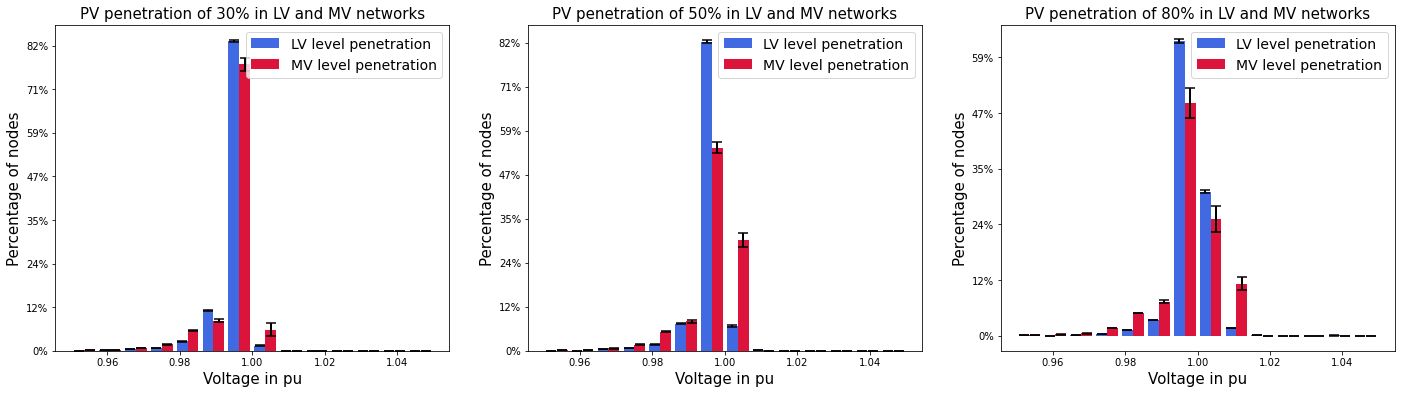
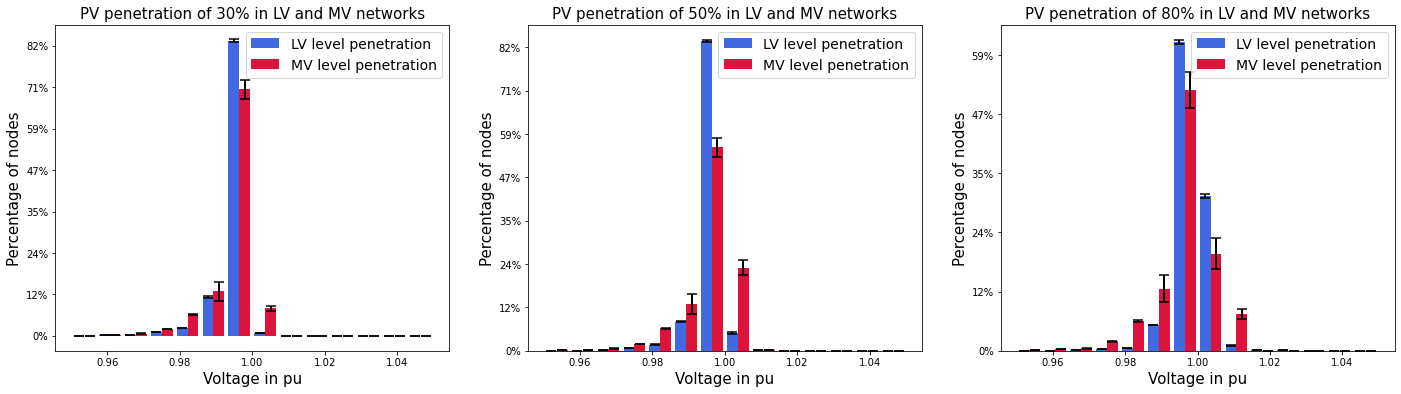
updated ensemble figs

diff --git a/ensemble/ensemble-test1.9.py b/ensemble/ensemble-test1.9.py
@@ -1,0 +1,249 @@
+# -*- coding: utf-8 -*-
+"""
+Created on Tue Mar 30 21:05:36 2021
+
+@author: Rounak
+
+Description: This program creates a schematic of the ensemble network generation
+process.
+"""
+
+import sys,os
+import networkx as nx
+import numpy as np
+import matplotlib.pyplot as plt
+import geopandas as gpd
+from shapely.geometry import Point
+from matplotlib.lines import Line2D
+from pyqtree import Index
+
+workpath = os.getcwd()
+figpath = workpath + "/figs/"
+
+def geodist(pt1,pt2):
+    '''
+    Measures the geodesic distance between two coordinates.
+    pt1: shapely point geometry of point 1
+    pt2: shapely point geometry of point 2
+    '''
+    lon1,lat1 = pt1.x,pt1.y
+    lon2,lat2 = pt2.x,pt2.y
+    return np.sqrt((lon1-lon2)**2+(lat1-lat2)**2)
+
+def bounds(pt,radius):
+    """
+    Returns the bounds for a point geometry. The bound is a square around the
+    point with side of 2*radius units.
+    
+    pt:
+        TYPE: shapely point geometry
+        DESCRIPTION: the point for which the bound is to be returned
+    
+    radius:
+        TYPE: floating type 
+        DESCRIPTION: radius for the bounding box
+    """
+    return (pt.x-radius, pt.y-radius, pt.x+radius, pt.y+radius)
+
+def find_nearest_node(center_cord,node_cord):
+    """
+    Computes the nearest node in the dictionary 'node_cord' to the point denoted
+    by the 'center_cord'
+    
+    center_cord: 
+        TYPE: list of two entries
+        DESCRIPTION: geographical coordinates of the center denoted by a list
+                     of two entries
+    
+    node_cord: 
+        TYPE: dictionary 
+        DESCRIPTION: dictionary of nodelist with values as the geographical 
+                     coordinate
+    """
+    xmin,ymin = np.min(np.array(list(node_cord.values())),axis=0)
+    xmax,ymax = np.max(np.array(list(node_cord.values())),axis=0)
+    bbox = (xmin,ymin,xmax,ymax)
+    idx = Index(bbox)
+    
+    nodes = []
+    for i,n in enumerate(list(node_cord.keys())):
+        node_geom = Point(node_cord[n])
+        node_bound = bounds(node_geom,0.0)
+        idx.insert(i,node_bound)
+        nodes.append((node_geom, node_bound, n))
+    
+    pt_center = Point(center_cord)
+    center_bd = bounds(pt_center,2)
+    matches = idx.intersect(center_bd)
+    closest_node = min(matches,key=lambda i: geodist(nodes[i][0],pt_center))
+    return nodes[closest_node][-1]
+
+
+def get_additional_edge(graph,edge):
+    new_graph = graph.__class__()
+    new_graph.add_nodes_from(graph.nodes)
+    new_graph.add_edges_from(graph.edges)
+    
+    new_graph.remove_edge(*edge)
+    if nx.has_path(new_graph,0,edge[0]):
+        end_node = edge[0]
+        other_node = edge[1]
+    else:
+        end_node = edge[1]
+        other_node = edge[0]
+    
+    comps = list(nx.connected_components(new_graph))
+    connected_nodes = list(comps[0]) \
+            if end_node in list(comps[0]) else list(comps[1])
+    dict_node = {n:graph.nodes[n]['cord'] for n in connected_nodes \
+                 if n!=end_node}
+    center_node = graph.nodes[other_node]['cord']
+    near_node = find_nearest_node(center_node,dict_node)
+    new_edge = (near_node,other_node)
+    return new_edge
+    
+    
+
+G = nx.Graph()
+edgelist = [(0,1),(0,2),(1,3),(1,4),(3,5),(2,6),(6,7),(6,8),(6,9),(7,10),(10,11)]
+G.add_edges_from(edgelist)
+
+
+cord = {0:[0,4],1:[-1,3],2:[1,3],3:[-2,2],4:[0,2],5:[-2,1],
+        6:[1,2],7:[1,1],8:[2,1],9:[2,2],10:[-1,0],11:[-2,0]}
+
+label = {0:'S',1:'R',2:'R',3:'R',4:'T',5:'T',6:'R',
+         7:'T',8:'T',9:'T',10:'R',11:'T'}
+
+nx.set_node_attributes(G,cord,'cord')
+nx.set_node_attributes(G,label,'label')
+
+edges = [(1,3),(1,4),(3,5),(2,6),(6,7),(6,8),(6,9),(7,10),(10,11)]
+new_edges = [get_additional_edge(G, edge) for edge in edges]
+add_edges = []
+for e in new_edges:
+    if (e[1],e[0]) not in add_edges and e not in add_edges:
+        add_edges.append(e)
+
+# Node colors
+n_col = []
+for n in G:
+    if label[n]=='T':
+        n_col.append('green')
+    elif label[n]=='R':
+        n_col.append('orange')
+    else:
+        n_col.append('dodgerblue')
+
+leghands1 = [Line2D([0], [0], color='white', markerfacecolor='green', 
+                   marker='o',markersize=15,label='transformer'),
+            Line2D([0], [0], color='white', markerfacecolor='orange', 
+                   marker='o',markersize=15,label='road node'),
+            Line2D([0], [0], color='white', markerfacecolor='dodgerblue', 
+                   marker='o',markersize=15,label='substation')]
+
+leghands2 = [Line2D([0], [0], color='crimson', markerfacecolor='crimson',linestyle='dashed', 
+                   marker='o',markersize=0,label='deleted edge'),
+            Line2D([0], [0], color='green', markerfacecolor='green', 
+                   linestyle='dashed',markersize=0,label='added edge'),
+            Line2D([0], [0], color='white', markerfacecolor='green', 
+                   marker='o',markersize=15,label='transformer'),
+            Line2D([0], [0], color='white', markerfacecolor='orange', 
+                   marker='o',markersize=15,label='road node'),
+            Line2D([0], [0], color='white', markerfacecolor='dodgerblue', 
+                   marker='o',markersize=15,label='substation')]
+
+#%% Figure 1: Optimal Network G0=(V,Ep)
+fig = plt.figure(figsize=(8,8))
+ax = fig.add_subplot(111)
+
+nx.draw_networkx(G,ax=ax,pos=cord,node_color=n_col,node_size=800,width=2)
+ax.legend(handles=leghands1,loc='best',ncol=1,prop={'size': 12})
+fig.savefig("{}{}.png".format(figpath,'optimal-g0'),bbox_inches='tight')
+
+#%% Figure 2: Transition from G0 to G1
+fig = plt.figure(figsize=(8,8))
+ax = fig.add_subplot(111)
+
+edges = [(0,1),(0,2),(1,3),(3,5),(2,6),(6,7),(6,8),(6,9),(7,10),(10,11)]
+del_edge = [(1,4)]
+add_edge = [(4,6)]
+nx.draw_networkx(G,ax=ax,pos=cord,node_color=n_col,with_labels=True,edgelist=edges,
+                 node_size=800)
+nx.draw_networkx_edges(G,ax=ax,pos=cord,style='solid',edgelist=edges,
+                       edge_color='black',width=2)
+nx.draw_networkx_edges(G,ax=ax,pos=cord,style='dashed',edgelist=del_edge,
+                       edge_color='crimson',width=2.5)
+nx.draw_networkx_edges(G,ax=ax,pos=cord,style='dashed',edgelist=add_edge,
+                       edge_color='green',width=2.5)
+ax.legend(handles=leghands2,loc='best',ncol=1,prop={'size': 12})
+fig.savefig("{}{}.png".format(figpath,'transition-g0-g1'),bbox_inches='tight')
+
+#%% Figure 3: Variant Network 1 G1=(V,Ep')
+fig = plt.figure(figsize=(8,8))
+ax = fig.add_subplot(111)
+
+G.add_edges_from(add_edge)
+G.remove_edge(*del_edge[0])
+
+nx.draw_networkx(G,ax=ax,pos=cord,node_color=n_col,node_size=800,width=2)
+ax.legend(handles=leghands1,loc='best',ncol=1,prop={'size': 12})
+fig.savefig("{}{}.png".format(figpath,'variant-g1'),bbox_inches='tight')
+
+#%% Figure 4: Transition from G1 to G2
+# fig = plt.figure(figsize=(8,8))
+# ax = fig.add_subplot(111)
+
+# edges = [(0,1),(0,2),(1,3),(3,5),(2,6),(4,6),(6,7),(6,9),(7,10),(10,11)]
+# del_edge = [(6,8)]
+# add_edge = [(7,8)]
+# nx.draw_networkx(G,ax=ax,pos=cord,node_color=n_col,with_labels=True,edgelist=edges,
+#                  node_size=800)
+# nx.draw_networkx_edges(G,ax=ax,pos=cord,style='solid',edgelist=edges,
+#                        edge_color='black',width=2)
+# nx.draw_networkx_edges(G,ax=ax,pos=cord,style='dashed',edgelist=del_edge,
+#                        edge_color='crimson',width=2)
+# nx.draw_networkx_edges(G,ax=ax,pos=cord,style='dashed',edgelist=add_edge,
+#                        edge_color='green',width=2)
+# ax.legend(handles=leghands2,loc='best',ncol=1,prop={'size': 12})
+# fig.savefig("{}{}.png".format(figpath,'transition-g1-g2'),bbox_inches='tight')
+
+#%% Figure 5: Variant Network 1 G2=(V,Ep'')
+# fig = plt.figure(figsize=(8,8))
+# ax = fig.add_subplot(111)
+
+# G.add_edges_from(add_edge)
+# G.remove_edge(*del_edge[0])
+
+# nx.draw_networkx(G,ax=ax,pos=cord,node_color=n_col,node_size=800,width=2)
+# ax.legend(handles=leghands1,loc='best',ncol=1,prop={'size': 12})
+# fig.savefig("{}{}.png".format(figpath,'variant-g2'),bbox_inches='tight')
+
+#%% Figure 7: Transition from G1 to G3
+fig = plt.figure(figsize=(8,8))
+ax = fig.add_subplot(111)
+
+edges = [(0,1),(0,2),(1,3),(3,5),(2,6),(4,6),(6,7),(6,8),(7,10),(10,11)]
+del_edge = [(6,9)]
+add_edge = [(2,9)]
+nx.draw_networkx(G,ax=ax,pos=cord,node_color=n_col,with_labels=True,edgelist=edges,
+                 node_size=800)
+nx.draw_networkx_edges(G,ax=ax,pos=cord,style='solid',edgelist=edges,
+                       edge_color='black',width=2)
+nx.draw_networkx_edges(G,ax=ax,pos=cord,style='dashed',edgelist=del_edge,
+                       edge_color='crimson',width=2.5)
+nx.draw_networkx_edges(G,ax=ax,pos=cord,style='dashed',edgelist=add_edge,
+                       edge_color='green',width=2.5)
+ax.legend(handles=leghands2,loc='best',ncol=1,prop={'size': 12})
+fig.savefig("{}{}.png".format(figpath,'transition-g1-g3'),bbox_inches='tight')
+
+#%% Figure 8: Variant Network 1 G3=(V,Ep''')
+fig = plt.figure(figsize=(8,8))
+ax = fig.add_subplot(111)
+
+G.add_edges_from(add_edge)
+G.remove_edge(*del_edge[0])
+
+nx.draw_networkx(G,ax=ax,pos=cord,node_color=n_col,node_size=800,width=2)
+ax.legend(handles=leghands1,loc='best',ncol=1,prop={'size': 12})
+fig.savefig("{}{}.png".format(figpath,'variant-g3'),bbox_inches='tight')

diff --git a/ensemble/ensemble-test1.8.py b/ensemble/ensemble-test1.8.py
@@ -76,10 +76,10 @@ def run_powerflow(sub,i,homes,rating):
 
 #%% Plot histogram of voltages
 from matplotlib.ticker import PercentFormatter,ScalarFormatter
-# sub = 147793
+sub = 147793
 # sub = 113088
 # sub = 121248
-sub = 121144
+# sub = 121144
 
 host = 3
 v_random1_mv = []; v_random2_mv = []; v_random3_mv = []
